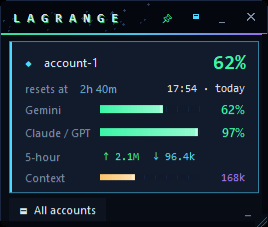
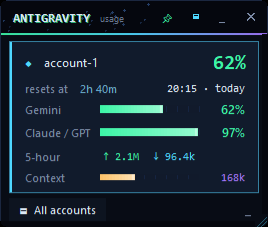
Name the tool, not the widget, in the title bar
The wordmark now reads A N T I G R A V I T Y with a small "usage" beside it,
matching the Claude Code sibling. With both widgets open on one desk the useful
distinction is Antigravity against Claude; "Lagrange" was the same word on both
and told them apart on neither.

It comes in three lengths — spaced-out, plain ANTIGRAVITY, and AGY — and the
title bar keeps the widest that fits, each candidate measured against the canvas
rather than estimated, the way the subtitle already was.

The product name is untouched everywhere it identifies the program: window
title, tray, shortcut, executable properties, README.

Changed region(s): [[0.1791, 0.0617, 0.4776, 0.1233], [0.0299, 0.0617, 0.1493, 0.1233], [0.6269, 0.37, 0.7463, 0.4009]]

diff --git a/lagrange/ui.py b/lagrange/ui.py
@@ -278,7 +278,7 @@ class Starfield(tk.Canvas):
     SWEEP_EVERY_MS = 12000
     SWEEP_STEP_MS = 40
 
-    def __init__(self, master, height: int = 32, title: str = "",
+    def __init__(self, master, height: int = 32, title: tuple[str, ...] = (),
                  subtitle: tuple[str, ...] = ()):
         # width=1: a Tk canvas asks for 378 pixels by default, which would set
         # the floor for the whole window and make compact mode anything but.
@@ -324,11 +324,25 @@ class Starfield(tk.Canvas):
                 # green reads as a glow behind the letters. On the canvas rather
                 # than in a label, because a label would bring an opaque
                 # rectangle and paint out the sky it is standing in.
+                #
+                # A spaced-out wordmark is wide, and compact mode is not, so the
+                # name comes as candidates: the widest that fits is kept, and
+                # each one is measured rather than guessed at.
                 middle = height // 2
-                self.create_text(13, middle + 1, text=self._title, anchor="w",
-                                 fill=mix(VOID, NEON, 0.7), font=F_BRAND, tags="brand")
-                mark = self.create_text(12, middle, text=self._title, anchor="w",
-                                        fill=TEXT, font=F_BRAND, tags="brand")
+                mark = None
+                for text in self._title:
+                    glow = self.create_text(13, middle + 1, text=text, anchor="w",
+                                            fill=mix(VOID, NEON, 0.7), font=F_BRAND,
+                                            tags="brand")
+                    mark = self.create_text(12, middle, text=text, anchor="w",
+                                            fill=TEXT, font=F_BRAND, tags="brand")
+                    if self.bbox(mark)[2] <= width - 6:
+                        break
+                    self.delete(glow)
+                    self.delete(mark)
+                    mark = None
+                if mark is None:
+                    return
                 # What this Lagrange is. Measured rather than estimated: each
                 # candidate is drawn, and dropped again if its right edge lands
                 # past the canvas — the longest one that fits stays, and in
@@ -549,7 +563,8 @@ class Widget:
         titlebar.pack(fill="x")
         titlebar.pack_propagate(False)
 
-        self.sky = Starfield(titlebar, height=32, title=t("title"),
+        self.sky = Starfield(titlebar, height=32,
+                             title=(t("title"), t("title_short"), t("title_min")),
                              subtitle=(t("subtitle"), t("subtitle_short")))
         self.sky.pack(side="left", fill="both", expand=True)
 

diff --git a/lagrange/i18n.py b/lagrange/i18n.py
@@ -20,9 +20,15 @@ STRINGS: dict[str, dict[str, str]] = {
         # everywhere a person meets it outside the window: the taskbar, the tray
         # balloon, the shortcut. "Lagrange" alone is a word the world already
         # owns — the rest of the name is what says which Lagrange this is.
-        "title": "L A G R A N G E",
-        "subtitle": "Gemini CLI (agy) usage",
-        "subtitle_short": "agy usage",
+        # The wordmark names the tool being measured, not the tool doing the
+        # measuring: on a desk with both widgets open, "Antigravity" and
+        # "Claude" is the distinction that matters, and "Lagrange" is not.
+        # Three lengths, longest first — the title bar takes the widest that fits.
+        "title": "A N T I G R A V I T Y",
+        "title_short": "ANTIGRAVITY",
+        "title_min": "AGY",
+        "subtitle": "usage",
+        "subtitle_short": "usage",
         "product": "Lagrange - Gemini CLI (agy) Usage",
         "active": "ACTIVE",
         "running": "RUNNING",
@@ -85,9 +91,11 @@ STRINGS: dict[str, dict[str, str]] = {
         "date_short": "{month} {day}",
     },
     "ru": {
-        "title": "L A G R A N G E",
-        "subtitle": "расход Gemini CLI (agy)",
-        "subtitle_short": "расход agy",
+        "title": "A N T I G R A V I T Y",
+        "title_short": "ANTIGRAVITY",
+        "title_min": "AGY",
+        "subtitle": "расход",
+        "subtitle_short": "расход",
         "product": "Lagrange - Gemini CLI (agy) Usage",
         "active": "АКТИВЕН",
         "running": "РАБОТАЕТ",

diff --git a/lagrange/__init__.py b/lagrange/__init__.py
@@ -7,7 +7,7 @@ Live quota, token and context meter, and account switcher, for Antigravity CLI
 Park where the pull is balanced.
 """
 
-__version__ = "1.2.1"
+__version__ = "1.2.2"
 
 # Antigravity build this release was developed and verified against. Shown by
 # `lagrange doctor` so a compatibility report always carries both numbers.

diff --git a/CHANGELOG.md b/CHANGELOG.md
@@ -6,6 +6,20 @@ project uses [semantic versioning](https://semver.org/spec/v2.0.0.html).
 Entries under **Compatibility** name the Antigravity version that forced the
 change, so it is possible to tell at a glance whether an upgrade is required.
 
+## [1.2.2] — 2026-08-28
+
+### Changed
+
+- **The title bar names what is being measured, not what is measuring it.** The
+  wordmark now reads `A N T I G R A V I T Y` with a small `usage` beside it. On
+  a desk running this and its Claude Code sibling side by side, "Antigravity"
+  against "Claude" is the distinction that matters, and "Lagrange" — the same
+  word on both — was not one. The product keeps its name everywhere else: the
+  window title, the tray, the shortcut, the executable.
+- The wordmark comes in three lengths and the title bar takes the widest that
+  fits, measured rather than guessed: spaced-out in the full view, plain
+  `ANTIGRAVITY` in compact, `AGY` if a window is dragged narrower still.
+
 ## [1.2.1] — 2026-08-28
 
 ### Changed
